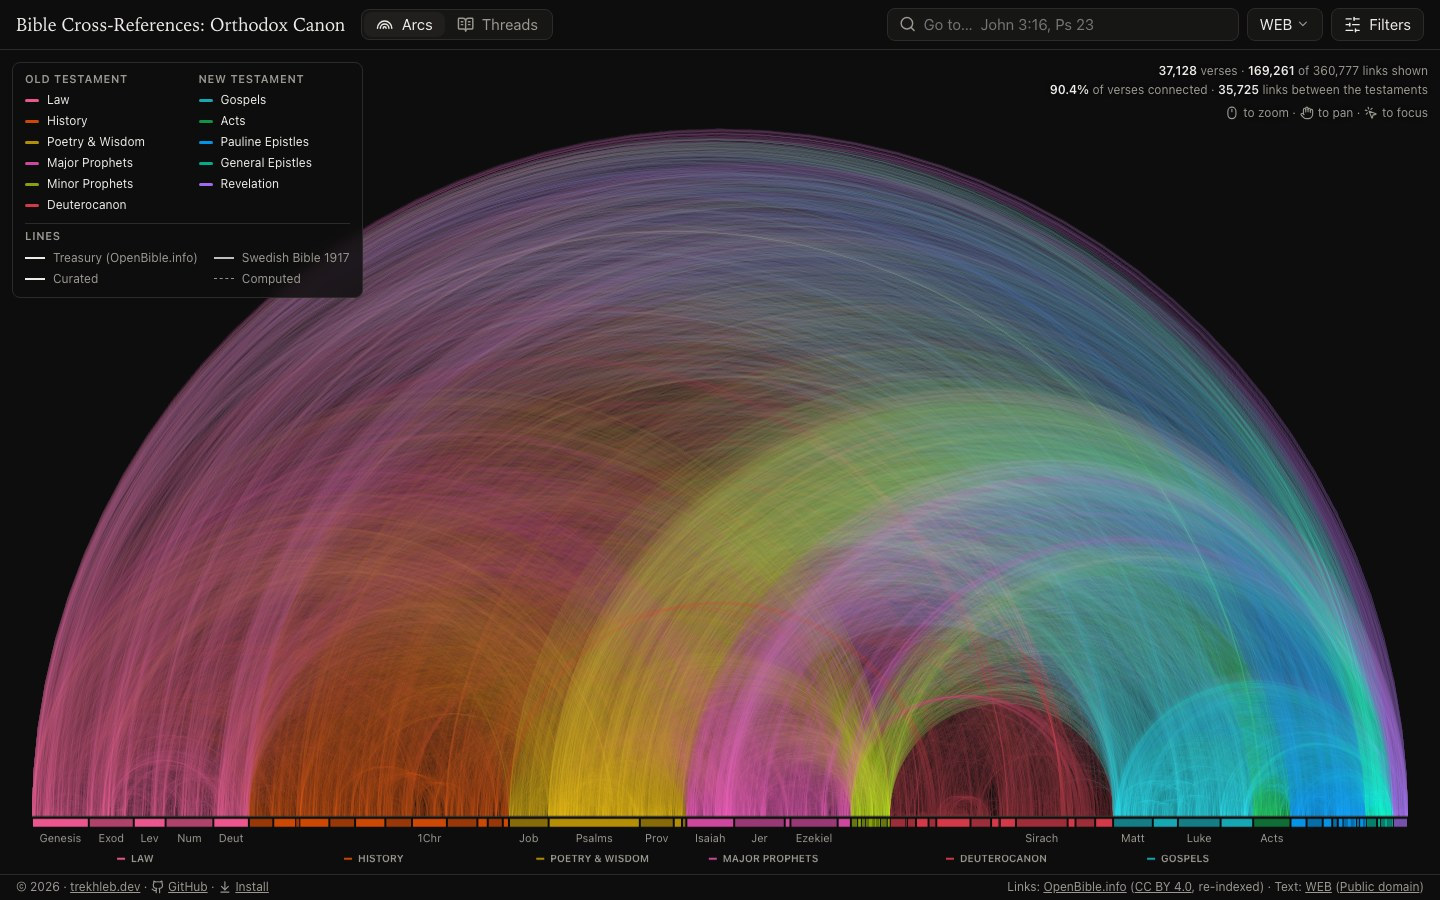
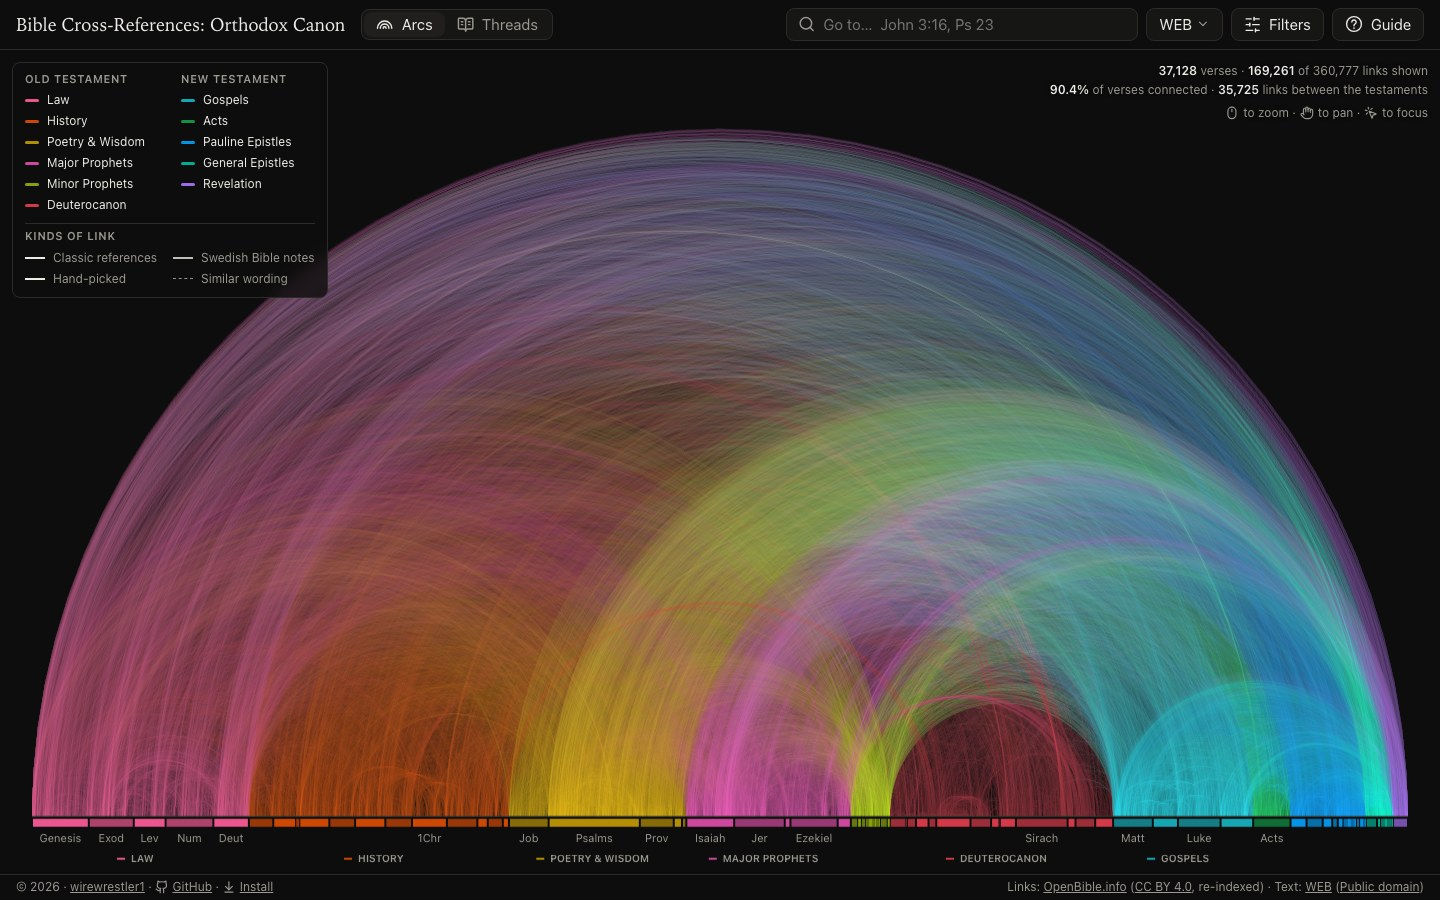
Redraw the pictures and say what this release speaks
The share picture and the README's screenshots are drawn from the new frame, with a phone
shot of the bar and the sheet in place of the original's. The README describes the suggestions
in the search, the plain names of the kinds and the guide, the phone's bar and three-height
sheet, and that this release speaks English, with the other five catalogues kept off the list
until they catch up.

diff --git a/scripts/screenshots.ts b/scripts/screenshots.ts
@@ -41,6 +41,8 @@ try {
     { file: 'screenshots/arcs.jpg', path: '', width: 1440, height: 900 },
     { file: 'screenshots/arcs-verse.jpg', path: '?ref=Heb.11.35', width: 1440, height: 900 },
     { file: 'screenshots/threads.jpg', path: 'threads/?ref=Sir.24', width: 1440, height: 900 },
+    // A phone, at twice its size: the bar along the bottom and the details sheet at half.
+    { file: 'screenshots/phone.jpg', path: '?ref=Sir.24.3', width: 780, height: 1688, scale: 2 },
   ];
   for (const shot of shots) {
     const scale = shot.scale ?? 1;

diff --git a/README.md b/README.md
@@ -46,13 +46,14 @@ arcs](public/screenshots/arcs.jpg)
 - Zoom from the whole canon down to single verses; hover a passage to see how many connections it
   has.
 - Search for any reference ("John 3:16", "Sir 24", "Susanna 1:5", "Psalm 151") or click a
-  passage to see where its links land.
+  passage to see where its links land. As you type, the box offers the books your typing could
+  become, then the book's chapters, then the chapter's verses, so a verse is three taps away.
 - Read it in seven translations — English (World English Bible with the deuterocanon, Berean
-  Standard Bible, King James Version), Portuguese, German, Italian and Spanish — with the
-  interface in any of six languages. Only the World English Bible carries the deuterocanonical
-  books; the others say so where one would be shown.
-- Filter by weight, hide a genre, or hide a kind of link: the Treasury's, the Swedish 1917
-  apparatus, the curated links, the computed ones.
+  Standard Bible, King James Version), Portuguese, German, Italian and Spanish. Only the World
+  English Bible carries the deuterocanonical books; the others say so where one would be shown.
+- Filter by weight, hide a genre, or hide a kind of link — Classic references (the Treasury's),
+  Swedish Bible notes (the 1917 apparatus), Hand-picked, Similar wording. A guide on the first
+  visit, and behind the "?" after that, says what each of those is and what weight means.
 
 ### Focus a passage
 
@@ -81,12 +82,15 @@ land](public/screenshots/threads.jpg)
 
 ### On your phone
 
-![Both views on a phone: Arcs with Psalm 23:1 focused, and Threads with John
-1](public/screenshots/phone.jpg)
+![The arcs on a phone, with Sirach 24:3 open in the details sheet and the bar along the
+bottom](public/screenshots/phone.jpg)
 
-Both views work on phones. On the arcs, touch and hold, then slide, to preview passages (on the book
-bar, just slide), and pinch to zoom. The details open in a sheet that you drag up to read and pull
-down to close. Every passage has its own link, filters included, e.g.
+The phone is the first screen this is designed for. A bar along the bottom holds the two views,
+the search, the filters and the guide, where a thumb reaches; the search opens as a sheet with
+its suggestions above the keyboard. On the arcs, touch and hold, then slide, to preview passages
+(on the book bar, just slide), and pinch to zoom. The details open in a sheet that rests at three
+heights — the heading alone, the text with the arcs still above it, or the whole screen — and
+closes when pulled down from the lowest. Every passage has its own link, filters included, e.g.
 [`?ref=Sir.24.21`](https://wirewrestler1.github.io/bible-cross-references/?ref=Sir.24.21) or
 [`?ref=Heb.11.35&kinds=curated`](https://wirewrestler1.github.io/bible-cross-references/?ref=Heb.11.35&kinds=curated),
 so you can share exactly what you are looking at.
@@ -113,12 +117,15 @@ Safari's.
 
 ## Languages
 
-The app speaks English, Portuguese, German, Italian, Spanish and Ukrainian. Each has pages of its
-own: English at the root, every other language one path segment down
-([`/pt/`](https://wirewrestler1.github.io/bible-cross-references/pt/?t=blivre)). Which language a
-visit speaks is settled in this order: the page's own path, then the address (`?lang=pt`), then the
-reader's last choice, then what their browser asks for, then English. On a first visit the Bible
-follows the interface, and after that the two are independent. Both are chosen in one menu.
+This release speaks English. The repository still holds the words of five more languages —
+Portuguese, German, Italian, Spanish and Ukrainian — from the project this is a fork of, kept off
+the published list (`LOCALE_IDS` in [`src/i18n/locale-id.ts`](src/i18n/locale-id.ts)) until their
+catalogues have caught up with the words added for the Orthodox canon, the kinds of link and the
+guide. Listing a language again gives it pages of its own, one path segment down (`/pt/`), and
+the rest below applies to it. Which language a visit speaks is settled in this order: the page's
+own path, then the address (`?lang=pt`), then the reader's last choice, then what their browser
+asks for, then English. On a first visit the Bible follows the interface, and after that the two
+are independent. Both are chosen in one menu.
 
 Everything the interface says lives in [`src/i18n/`](src/i18n/):
 
